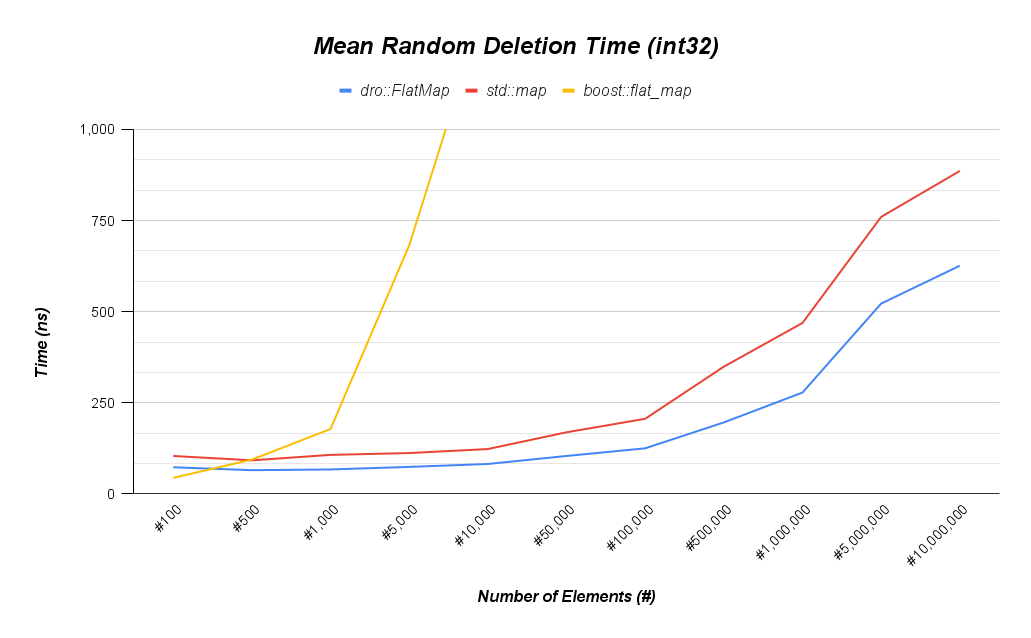
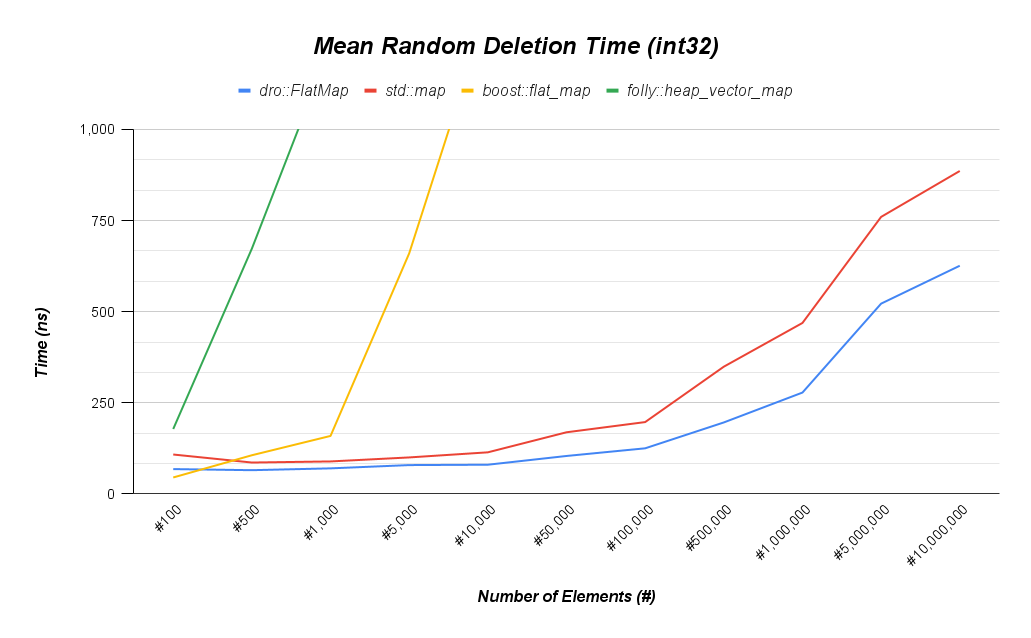
Added folly heap_vector_map benchmark

diff --git a/benchmarks/flat-rb-tree-benchmark.cpp b/benchmarks/flat-rb-tree-benchmark.cpp
@@ -5,17 +5,22 @@
 // MERCHANTABILITY or FITNESS FOR A PARTICULAR PURPOSE.  See the
 // GNU General Public License for more details.
 
-#include "dro/flat-rb-tree.hpp"
-#include <chrono>
-#include <cstdint>
+#include <chrono> // for high_resolution_clock, nanoseconds
+#include <cstdint>// for uint32_t
 #include <cstdlib>
 #include <iostream>
 #include <map>
 #include <random>
 #include <vector>
 
+#include "dro/flat-rb-tree.hpp"
+
 #if __has_include(<boost/container/flat_map.hpp> )
 #include <boost/container/flat_map.hpp>
+#endif
+
+#if __has_include(<folly/container/heap_vector_types.h> )
+#include <folly/container/heap_vector_types.h>
 #endif
 
 struct alignas(4) Test {
@@ -158,6 +163,54 @@ int main() {
   // Remove Benchmark
   start = std::chrono::high_resolution_clock::now();
   for (auto i : randInts) { boost_.erase(Test(i)); }
+  stop = std::chrono::high_resolution_clock::now();
+
+  std::cout << "Mean erase time: "
+            << std::chrono::duration_cast<std::chrono::nanoseconds>(stop -
+                                                                    start)
+                       .count() /
+                   iterations
+
+            << " ns.\n";
+
+#endif
+
+#if __has_include(<folly/container/heap_vector_types.h>)
+
+  std::cout << "Folly heap_vector_map: \n";
+
+  // Insertion Benchmark
+  folly::heap_vector_map<Test, Test> folly_;
+  start = std::chrono::high_resolution_clock::now();
+  for (auto i : randInts) { folly_.emplace(Test(i), Test(i)); }
+  stop = std::chrono::high_resolution_clock::now();
+
+  std::cout << "Mean insertion time: "
+            << std::chrono::duration_cast<std::chrono::nanoseconds>(stop -
+                                                                    start)
+                       .count() /
+                   iterations
+            << " ns.\n";
+
+  // Find Benchmark
+  idx   = 0;
+  start = std::chrono::high_resolution_clock::now();
+  for (auto i : randInts) {
+    findKeys[idx] = *(folly_.find(Test(i)));
+    ++idx;
+  }
+  stop = std::chrono::high_resolution_clock::now();
+
+  std::cout << "Mean find time: "
+            << std::chrono::duration_cast<std::chrono::nanoseconds>(stop -
+                                                                    start)
+                       .count() /
+                   iterations
+            << " ns.\n";
+
+  // Remove Benchmark
+  start = std::chrono::high_resolution_clock::now();
+  for (auto i : randInts) { folly_.erase(Test(i)); }
   stop = std::chrono::high_resolution_clock::now();
 
   std::cout << "Mean erase time: "
